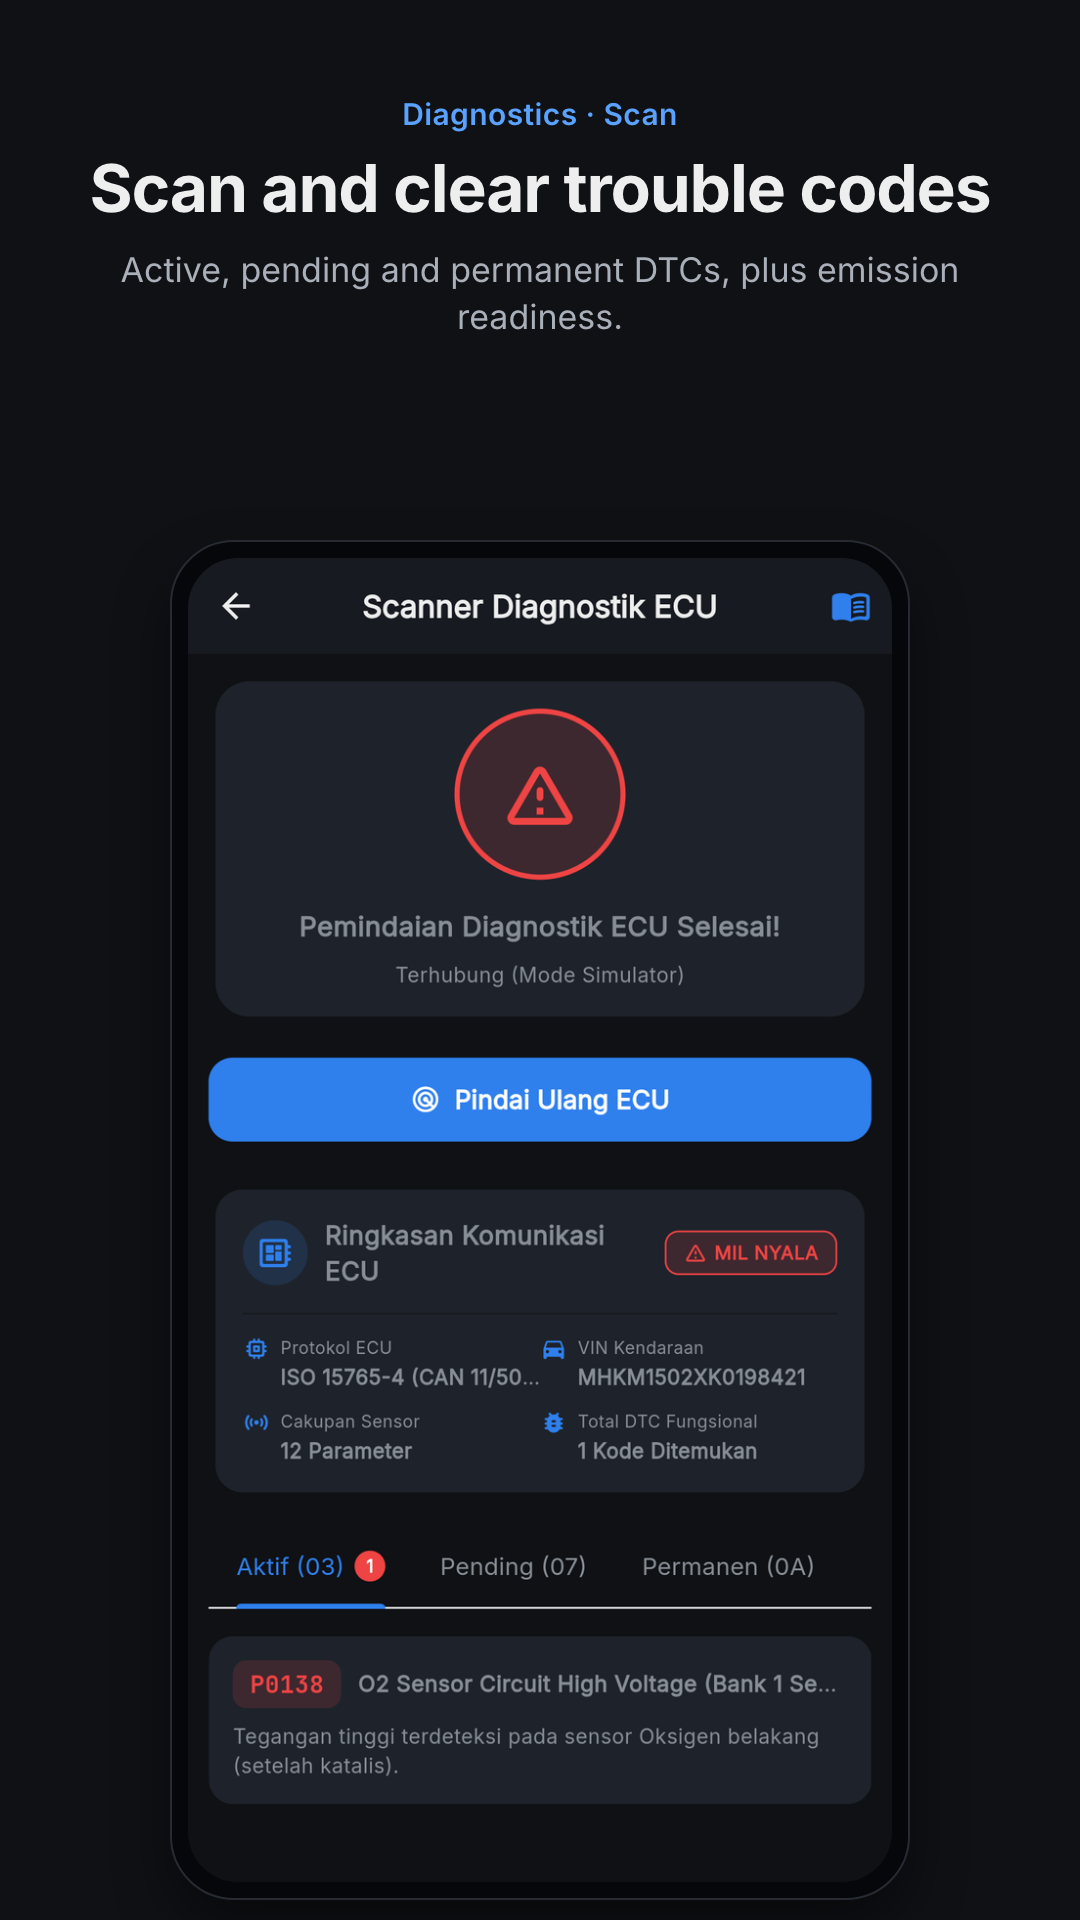
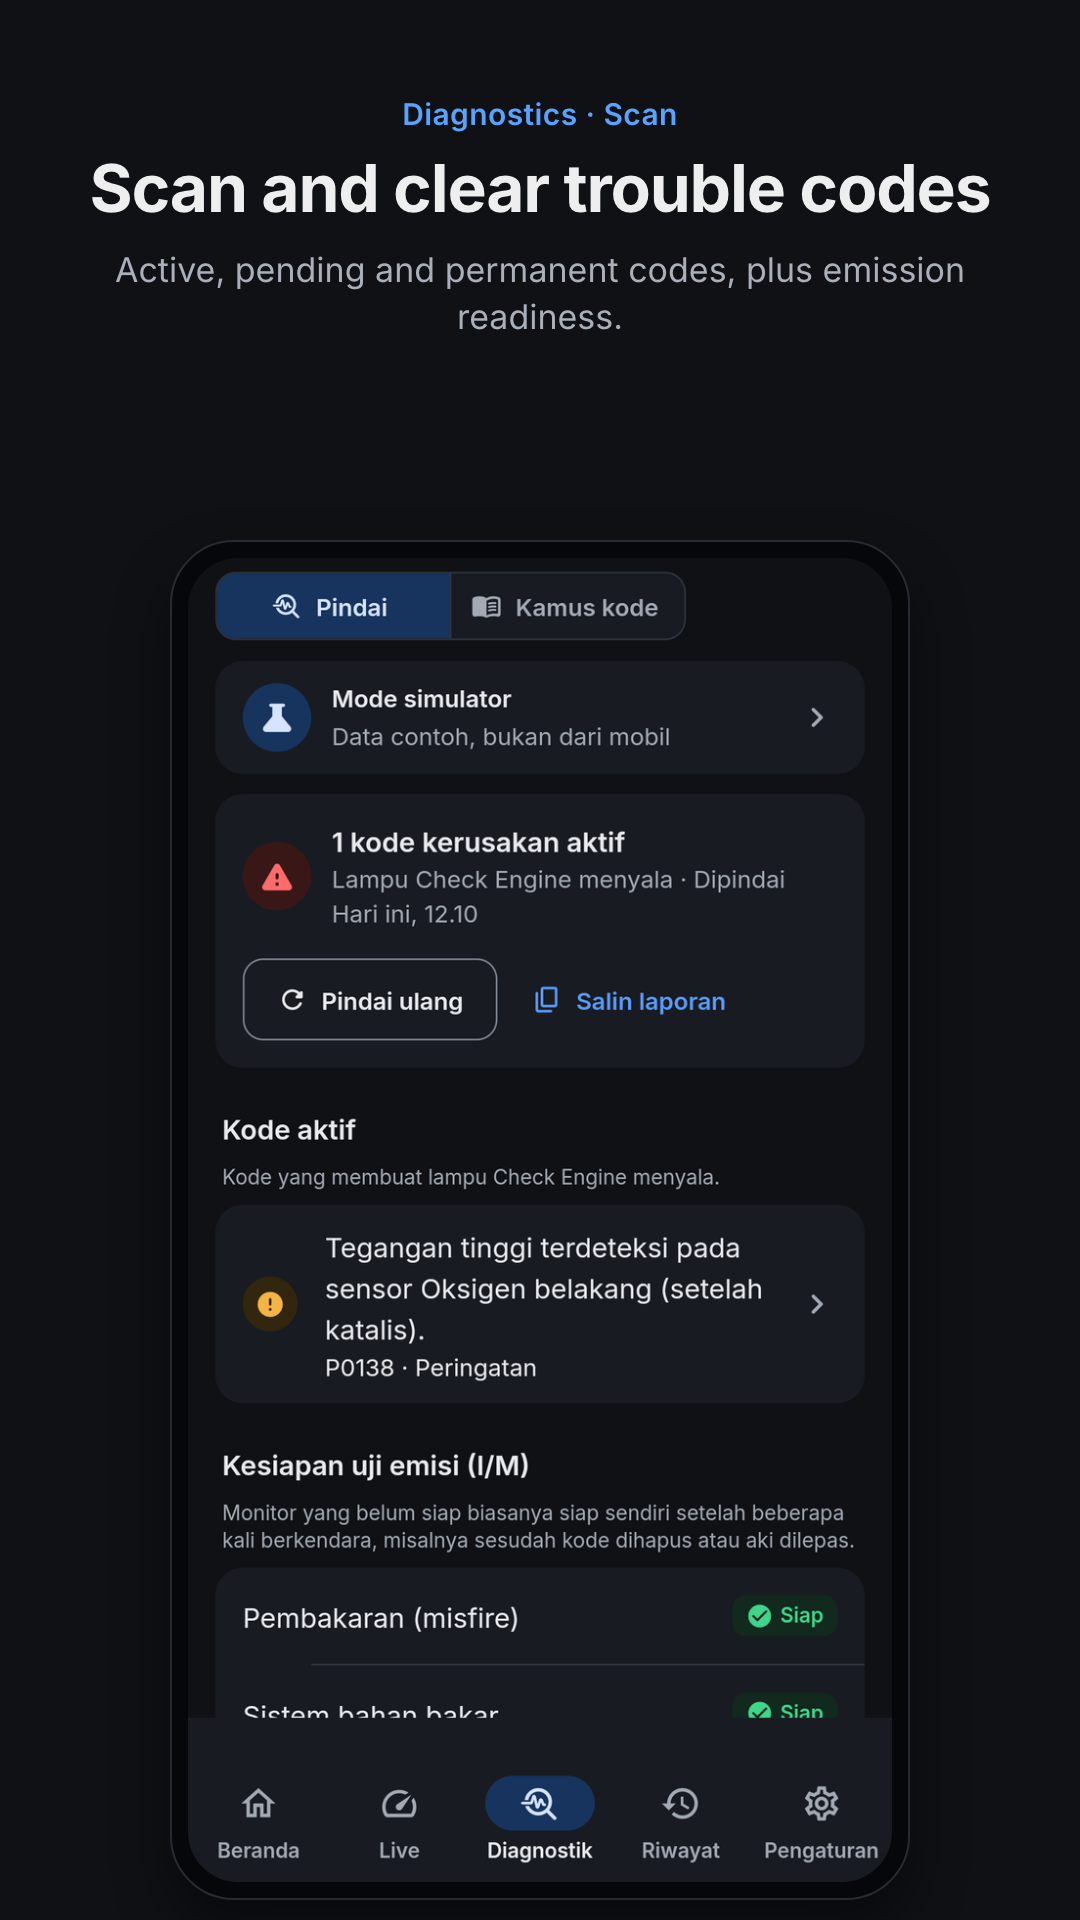
docs(store): listing screenshots from the redesigned UI
Recaptured all eight shots from a clean release build of 437c561
(SRC_REV=437c561-20261123114909) at default text size, named after the
new tabs: Beranda, Live (Meter, Sensor, Grafik), Diagnostik (Pindai,
Kamus kode), Riwayat, and the first-run screen that offers the adapter
or the simulator. The superseded files are removed; README and the
landing page point at the new names and use the glossary labels.

capture.sh now drives the new UI from a never-opened install: welcome
screen, simulator, a sample refuel and oil change, the simulated Check
Engine scan and the P0138 dictionary entry. It checks the font scale
and restores auto-rotate on exit. The History caption no longer
promises a km/L figure: simulator trips are never saved, so the shot
cannot show one.

Changed region(s): [[0.1833, 0.2812, 0.825, 0.9688], [0.1222, 0.125, 0.8861, 0.1562], [0.7639, 0.3125, 0.825, 0.3438]]

diff --git a/docs/index.html b/docs/index.html
@@ -37,7 +37,7 @@
           <a class="btn" href="https://github.com/RulyOctareza/OBD-Scanner"><span class="label"><small>Kode sumber</small>GitHub</span></a>
         </div>
       </div>
-      <div class="hero-shot"><img src="screenshots/01-kesehatan.png" alt="Layar Kesehatan AutoCare dengan skor 100"></div>
+      <div class="hero-shot"><img src="screenshots/01-beranda.png" alt="Beranda AutoCare dengan skor kesehatan"></div>
     </div>
   </section>
 
@@ -61,14 +61,14 @@
       <h2>Lihat lebih dekat</h2>
       <p class="sub">Screenshot asli dari aplikasi dengan mode simulator.</p>
       <div class="shots">
-        <img src="screenshots/01-kesehatan.png" alt="Skor kesehatan" loading="lazy">
-        <img src="screenshots/02-meter.png" alt="Meter kokpit" loading="lazy">
-        <img src="screenshots/03-sensor.png" alt="Semua sensor" loading="lazy">
-        <img src="screenshots/04-grafik.png" alt="Grafik riwayat RPM" loading="lazy">
-        <img src="screenshots/05-diagnostik.png" alt="Hasil scanner diagnostik" loading="lazy">
-        <img src="screenshots/06-kamus-dtc.png" alt="Kamus kode" loading="lazy">
-        <img src="screenshots/07-linimasa.png" alt="Riwayat isi BBM dan servis" loading="lazy">
-        <img src="screenshots/08-simulator.png" alt="Mode simulator" loading="lazy">
+        <img src="screenshots/01-beranda.png" alt="Beranda: skor kesehatan" loading="lazy">
+        <img src="screenshots/02-live-meter.png" alt="Live: meter" loading="lazy">
+        <img src="screenshots/03-live-sensor.png" alt="Live: sensor" loading="lazy">
+        <img src="screenshots/04-grafik.png" alt="Live: grafik putaran mesin" loading="lazy">
+        <img src="screenshots/05-diagnostik.png" alt="Diagnostik: hasil pemindaian" loading="lazy">
+        <img src="screenshots/06-kamus-kode.png" alt="Kamus kode" loading="lazy">
+        <img src="screenshots/07-riwayat.png" alt="Riwayat isi BBM dan servis" loading="lazy">
+        <img src="screenshots/08-mulai.png" alt="Layar pertama: adapter atau simulator" loading="lazy">
       </div>
     </div>
   </section>

diff --git a/tool/store_assets/render.py b/tool/store_assets/render.py
@@ -44,34 +44,34 @@ NAV_BAR_PX = 126
 # Order = Play screenshot order. Captions stay short: Play shows them small.
 SHOTS = [
     {
-        "name": "01-kesehatan",
+        "name": "01-beranda",
         "label": {"id": "Beranda", "en": "Home"},
         "id": ("Skor kesehatan mobil, langsung dari mesin",
                "Suhu mesin, aki, kode kerusakan, dan jadwal oli dalam satu skor."),
         "en": ("Your car's health at a glance",
-               "Coolant, battery, trouble codes and oil schedule in one live score."),
+               "Engine temperature, battery, trouble codes and oil schedule in one live score."),
     },
     {
-        "name": "02-meter",
+        "name": "02-live-meter",
         "label": {"id": "Live · Meter", "en": "Live · Gauges"},
         "id": ("Meter yang bisa Anda atur",
                "Putaran mesin, kecepatan, Trip A dan B, plus petunjuk Hemat."),
-        "en": ("A cockpit you can customise",
+        "en": ("Gauges you can customise",
                "Engine speed, vehicle speed, Trip A and B, plus an economy hint."),
     },
     {
-        "name": "03-sensor",
+        "name": "03-live-sensor",
         "label": {"id": "Live · Sensor", "en": "Live · Sensors"},
         "id": ("Semua sensor penting dalam satu layar",
-               "Suhu, tegangan aki, MAP, MAF, beban mesin, dan lainnya."),
+               "Suhu mesin, tegangan aki, MAP, MAF, beban mesin, dan lainnya."),
         "en": ("Every key sensor on one screen",
-               "Temperatures, battery voltage, MAP, MAF, engine load and more."),
+               "Engine temperature, battery voltage, MAP, MAF, engine load and more."),
     },
     {
         "name": "04-grafik",
         "label": {"id": "Live · Grafik sensor", "en": "Live · Sensor chart"},
         "id": ("Grafik riwayat tiap sensor",
-               "Tren 1 menit sampai 1 jam, lengkap dengan puncak dan rata-rata."),
+               "Tren 1 mnt sampai 1 jam, lengkap dengan puncak dan rata-rata."),
         "en": ("A history chart for every sensor",
                "Trends from 1 minute to 1 hour, with peak and average."),
     },
@@ -81,10 +81,10 @@ SHOTS = [
         "id": ("Pindai dan hapus kode kerusakan",
                "Kode aktif, tertunda, dan permanen, plus kesiapan uji emisi."),
         "en": ("Scan and clear trouble codes",
-               "Active, pending and permanent DTCs, plus emission readiness."),
+               "Active, pending and permanent codes, plus emission readiness."),
     },
     {
-        "name": "06-kamus-dtc",
+        "name": "06-kamus-kode",
         "label": {"id": "Diagnostik · Kamus kode", "en": "Diagnostics · Code dictionary"},
         "id": ("Arti kode kerusakan, dalam Bahasa Indonesia",
                "Gejala, kemungkinan penyebab, dan rekomendasi tindakan."),
@@ -92,22 +92,25 @@ SHOTS = [
                "Symptoms, likely causes and what to do next."),
     },
     {
-        "name": "07-linimasa",
+        # Simulator trips are never saved, so this shot cannot show a km/L
+        # figure; the caption promises only what the capture shows.
+        "name": "07-riwayat",
         "label": {"id": "Riwayat", "en": "History"},
         "id": ("Riwayat perjalanan, isi BBM, dan servis",
-               "Hitung km/L dan ingat jadwal ganti oli berikutnya."),
+               "Perjalanan tercatat otomatis, lengkap dengan total biaya mobil Anda."),
         "en": ("Trips, fuel and service history",
-               "Track your km/L and never miss the next oil change."),
+               "Trips are logged automatically, with your car's total running cost."),
     },
     {
         # The real-adapter sheet would list the phone's bonded Bluetooth devices
-        # (personal names), so the store set shows the simulator sheet instead.
-        "name": "08-simulator",
-        "label": {"id": "Mode simulator", "en": "Simulator mode"},
-        "id": ("Coba semua fitur tanpa mobil",
-               "Data contoh, termasuk mesin terlalu panas, aki lemah, dan lampu Check Engine."),
-        "en": ("Try every feature without a car",
-               "Sample data, including overheating, a weak battery and a Check Engine light."),
+        # (personal names), so the set ends on the first screen instead, which
+        # offers both the adapter and the simulator.
+        "name": "08-mulai",
+        "label": {"id": "Mulai", "en": "Get started"},
+        "id": ("Mulai dengan adapter atau simulator",
+               "Tanpa adapter? Coba semua fitur dengan data contoh."),
+        "en": ("Start with an adapter or the simulator",
+               "No adapter? Try every feature with sample data."),
     },
 ]
 
@@ -256,10 +259,9 @@ def main() -> None:
             n += 1
             title, sub = shot[key]
             framed(fonts, cropped[shot["name"]], shot["label"][key], title, sub,
-                       tmp / f"{key}-{n}.html",
-                   out_dir / f"{n}_{shot['name']}.png")
+                   tmp / f"{key}-{n}.html", out_dir / f"{n}_{shot['name']}.png")
         tagline, chips = FEATURE[key]
-        hero = cropped.get("01-kesehatan") or next(iter(cropped.values()))
+        hero = cropped.get("01-beranda") or next(iter(cropped.values()))
         feature_graphic(fonts, icon_src, hero, tagline, chips, tmp / f"{key}-feature.html",
                         meta / locale_dir / "images" / "featureGraphic.png", 1024, 500, 1.0)
         with Image.open(icon_src) as im:
@@ -267,7 +269,7 @@ def main() -> None:
                 meta / locale_dir / "images" / "icon.png", optimize=True)
         print(f"{locale_dir}: {n} screenshots, feature graphic, icon")
 
-    hero = cropped.get("01-kesehatan") or next(iter(cropped.values()))
+    hero = cropped.get("01-beranda") or next(iter(cropped.values()))
     assets = ROOT / "docs" / "assets"
     assets.mkdir(parents=True, exist_ok=True)
     feature_graphic(fonts, icon_src, hero, FEATURE["id"][0], FEATURE["id"][1],

diff --git a/tool/store_assets/README.md b/tool/store_assets/README.md
@@ -2,20 +2,20 @@
 
 Regenerates every screenshot and promotional image used by the Play listing (`fastlane/metadata/android/`), the README (`docs/screenshots/`) and GitHub (`docs/assets/social-preview.png`).
 
-1. Install AutoCare on the phone with the real fonts (a release build once the fonts are bundled, or `flutter build apk --profile --target-platform android-arm` for a 32-bit phone such as the Galaxy A6+), prepare it as described at the top of `capture.sh`, then:
+1. Build a release APK with `tool/build_verified.sh apk`, install it fresh on the phone (`adb install`, after `adb uninstall com.autocare.autocare` if an older copy is there; answer the Play Protect prompt on the phone if it appears), do not open it, then:
 
    ```bash
    tool/store_assets/capture.sh /tmp/autocare-raw
    ```
 
-   The captures still show the status bar and notification icons; they are cropped away in step 2, so keep the raw files out of git.
+   The script starts on the welcome screen, chooses the simulator, adds a sample refuel and oil change, turns on the simulated Check Engine light and scans. Read the requirements at the top of `capture.sh` first: it needs a never-opened install and the default font size, and its taps are coordinates for a 1080×2220 phone. The captures still show the status bar and notification icons; they are cropped away in step 2, so keep the raw files out of git.
 
 2. Render (needs Python with Pillow and Google Chrome):
 
    ```bash
-   python3 tool/store_assets/render.py --raw /tmp/autocare-raw --fonts assets/fonts
+   python3 tool/store_assets/render.py --raw /tmp/autocare-raw
    ```
 
-   `--fonts` points at `Inter-Regular`, `Inter-SemiBold` and `Inter-Bold` (`.otf` or `.ttf`, OFL). Captions, screenshot order and the feature-graphic tagline are the `SHOTS` and `FEATURE` tables in `render.py`.
+   Fonts come from `assets/fonts` (Inter, OFL), the same files the app bundles; `--fonts <dir>` overrides them. Captions, screenshot order and the feature-graphic tagline are the `SHOTS` and `FEATURE` tables in `render.py`. Outputs are overwritten, never cleared: if a shot is renamed or dropped, remove its old files by hand.
 
 Play limits checked by the output: screenshots 1080×1920 without alpha (raw 1080×2220 is longer than Play's 2:1 limit), feature graphic 1024×500 without alpha, icon 512×512 PNG.

diff --git a/README.md b/README.md
@@ -31,16 +31,16 @@
 
 <table>
   <tr>
-    <td align="center"><img src="docs/screenshots/01-kesehatan.png" width="200" alt="Skor kesehatan mobil"><br><sub><b>Skor kesehatan</b></sub></td>
-    <td align="center"><img src="docs/screenshots/02-meter.png" width="200" alt="Live, meter"><br><sub><b>Live · Meter</b></sub></td>
-    <td align="center"><img src="docs/screenshots/03-sensor.png" width="200" alt="Live, sensor"><br><sub><b>Live · Sensor</b></sub></td>
-    <td align="center"><img src="docs/screenshots/04-grafik.png" width="200" alt="Grafik sensor"><br><sub><b>Grafik sensor</b></sub></td>
+    <td align="center"><img src="docs/screenshots/01-beranda.png" width="200" alt="Beranda, skor kesehatan mobil"><br><sub><b>Beranda</b></sub></td>
+    <td align="center"><img src="docs/screenshots/02-live-meter.png" width="200" alt="Live, meter"><br><sub><b>Live · Meter</b></sub></td>
+    <td align="center"><img src="docs/screenshots/03-live-sensor.png" width="200" alt="Live, sensor"><br><sub><b>Live · Sensor</b></sub></td>
+    <td align="center"><img src="docs/screenshots/04-grafik.png" width="200" alt="Live, grafik putaran mesin"><br><sub><b>Live · Grafik sensor</b></sub></td>
   </tr>
   <tr>
     <td align="center"><img src="docs/screenshots/05-diagnostik.png" width="200" alt="Diagnostik, hasil pemindaian"><br><sub><b>Diagnostik · Pindai</b></sub></td>
-    <td align="center"><img src="docs/screenshots/06-kamus-dtc.png" width="200" alt="Diagnostik, kamus kode"><br><sub><b>Diagnostik · Kamus kode</b></sub></td>
-    <td align="center"><img src="docs/screenshots/07-linimasa.png" width="200" alt="Riwayat isi BBM dan servis"><br><sub><b>Riwayat</b></sub></td>
-    <td align="center"><img src="docs/screenshots/08-simulator.png" width="200" alt="Mode simulator"><br><sub><b>Mode simulator</b></sub></td>
+    <td align="center"><img src="docs/screenshots/06-kamus-kode.png" width="200" alt="Diagnostik, kamus kode"><br><sub><b>Diagnostik · Kamus kode</b></sub></td>
+    <td align="center"><img src="docs/screenshots/07-riwayat.png" width="200" alt="Riwayat isi BBM dan servis"><br><sub><b>Riwayat</b></sub></td>
+    <td align="center"><img src="docs/screenshots/08-mulai.png" width="200" alt="Layar pertama: adapter atau simulator"><br><sub><b>Mulai: adapter atau simulator</b></sub></td>
   </tr>
 </table>
 
